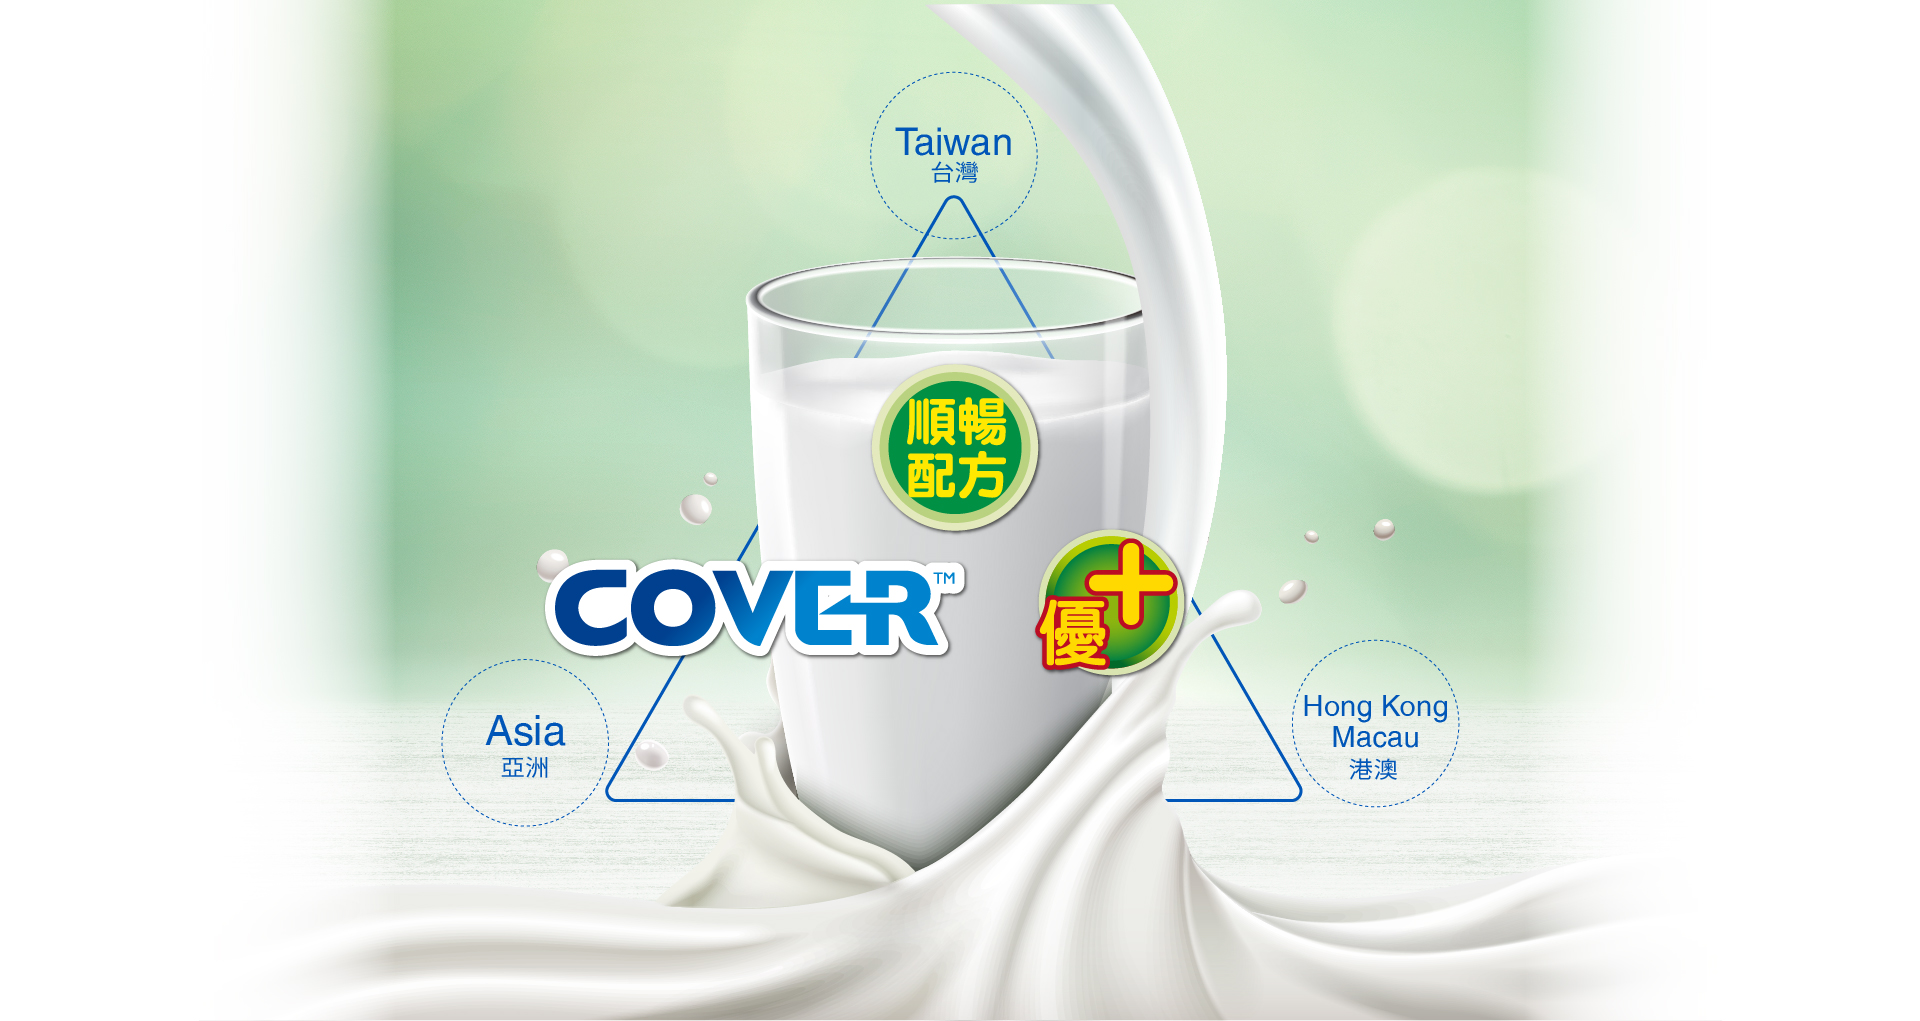
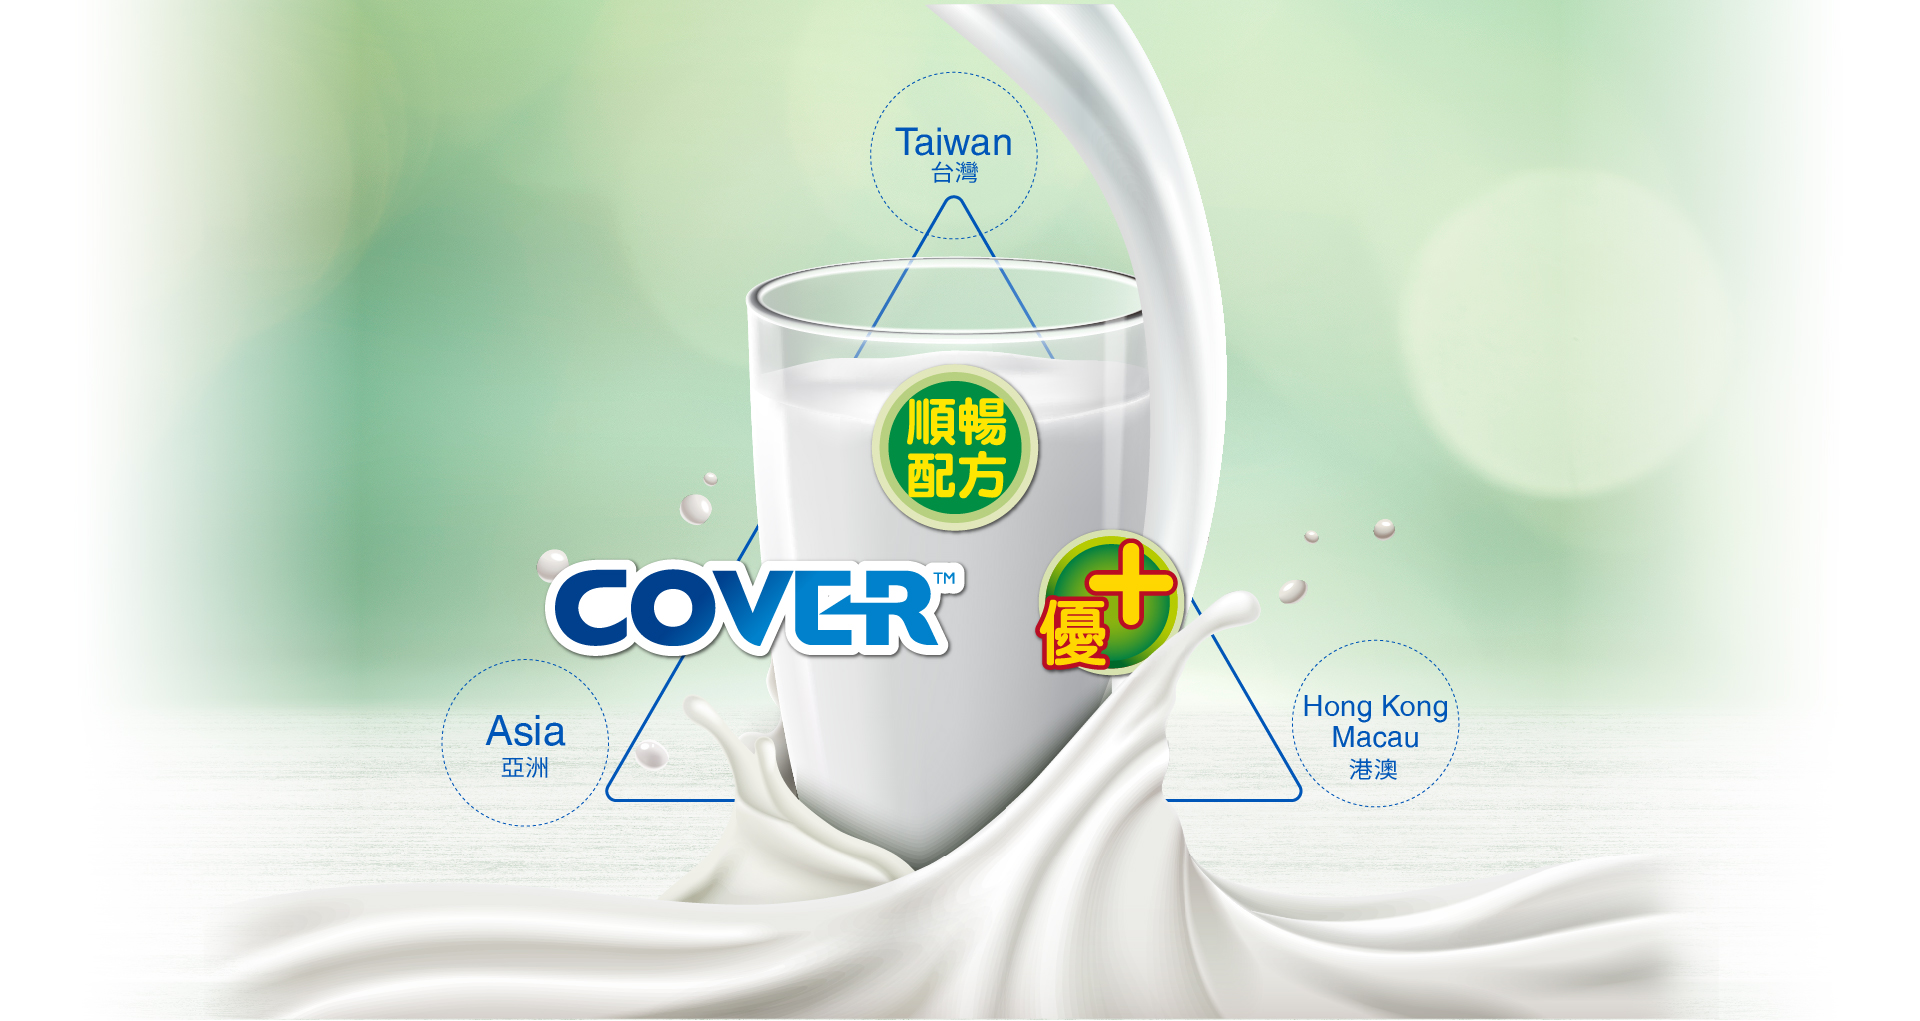
三角形

diff --git a/style.css b/style.css
@@ -2211,5 +2211,5 @@ section.team h4 {
 }
 
 .imgt {
-    margin: 0 -160px;
+    margin: 0 -15px;
 }
